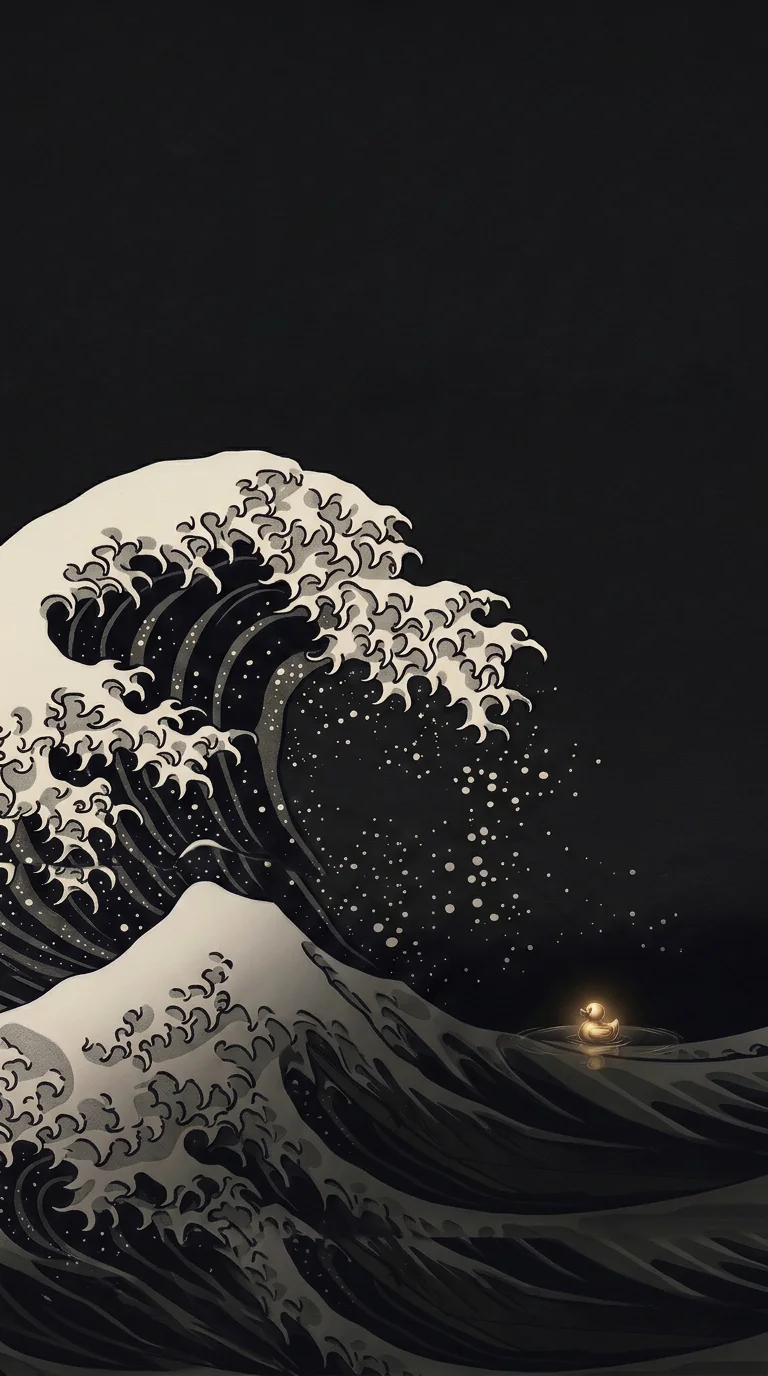
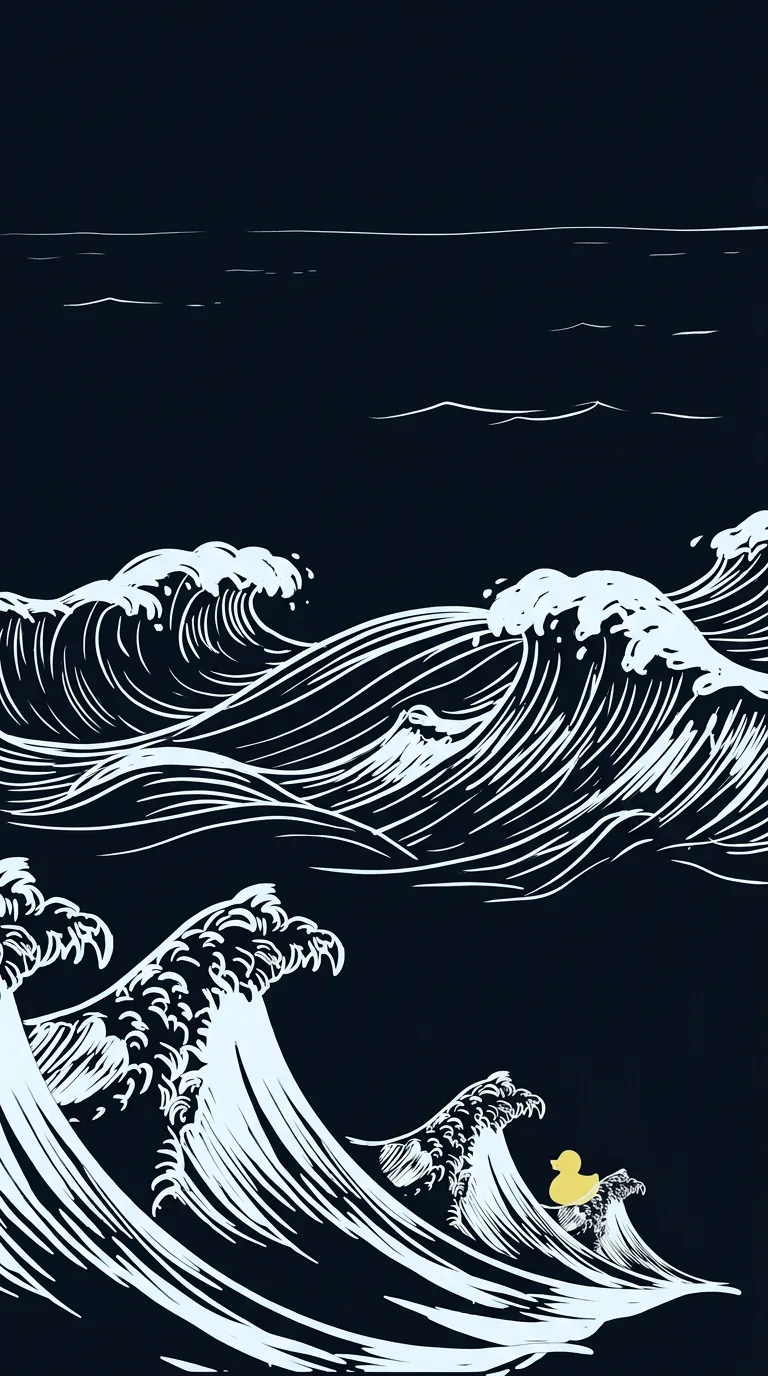
feat(hero): stage vast-ocean artwork and open the hero band
The old hero-band.webp (1000x676) cover-cropped about two-thirds of the
scene and stretched ~2x on desktop — grain where the scope should be.
Stage the approved wide (1376x768) and tall (768x1376) artworks, wire the
tall one to portrait phones via <picture>, and open the band:
clamp(420px, 58vh, 640px) on desktop, clamp(380px, 56vh, 520px) on
portrait mobile, object-position holding horizon, crest, and duck in frame.

diff --git a/styles.css b/styles.css
@@ -1,8 +1,9 @@
 /* Parent Pep Talks brand system — shared by every page on parentpeptalks.com.
    Two worlds. The warm paper world is the interface: bone field, charcoal ink,
    1px hairlines. The black night world is the artwork, used exactly as Allie
-   painted it — field #000000, ice-blue foam hsl(197 100% 95%), lemon glow
-   hsl(54 77% 66%) — hung full-bleed as a band from the very top of the page,
+   painted it — deep-navy night field, ice-blue foam hsl(197 100% 95%),
+   lemon glow hsl(54 77% 66%) — hung full-bleed as a band from the very top
+   of the page,
    cropping at the viewport edges (the framed-print staging from PR #5 is
    retired). Gold bridges the worlds: one gold family, and the CTA --primary
    is the duck's light on the page — actions only. The artwork's thick carved
@@ -63,9 +64,11 @@ main { flex: 1; display: flex; flex-direction: column; }
 
 /* The hero is a full-bleed band from the very top of the page: edge-to-edge
    artwork, no border, no shadow, no rounded corners — the wave crops at the
-   viewport edges. Height stays capped so the tagline and email capture still
-   peek into the first screenful, and object-position holds the duck in frame
-   from 360px up through 1440px and beyond. */
+   viewport edges. The wide artwork carries desktop and landscape; portrait
+   phones swap to the tall artwork via the index.html <picture>. Height stays
+   generous so the vast-ocean scope reads, but capped so the tagline and email
+   capture still peek into the first screenful, and object-position holds the
+   duck in frame. */
 .hero {
   display: flex;
   flex-direction: column;
@@ -73,7 +76,7 @@ main { flex: 1; display: flex; flex-direction: column; }
 }
 .hero-band {
   width: 100%;
-  height: clamp(320px, 44vh, 440px);
+  height: clamp(420px, 58vh, 640px);
   overflow: hidden;
 }
 .hero-band .hero-image {
@@ -81,11 +84,21 @@ main { flex: 1; display: flex; flex-direction: column; }
   width: 100%;
   height: 100%;
   object-fit: cover;
-  object-position: center;
+  /* Wide artwork: horizon at ~23% of frame height, duck at ~73% — the center
+     window keeps both in frame across desktop sizes. */
+  object-position: center 50%;
   pointer-events: none;
 }
 @media (max-width: 640px) {
+  /* Landscape phones: short band on the wide artwork — today's crop. */
   .hero-band { height: clamp(240px, 34vh, 320px); }
+}
+@media (max-width: 640px) and (orientation: portrait) {
+  /* Portrait phones get the tall artwork: a taller band opens up the ocean
+     expanse; a low anchor keeps the duck and main crest in frame — the duck
+     sits at ~86% of the tall frame. */
+  .hero-band { height: clamp(380px, 56vh, 520px); }
+  .hero-band .hero-image { object-position: center 78%; }
 }
 /* The promise line lives in the warm space below the band — charcoal
    serif-italic ink on bone, never overlaid on the artwork. */

diff --git a/index.html b/index.html
@@ -27,7 +27,10 @@
     <main>
       <section class="hero">
         <div class="hero-band">
-          <img src="assets/hero-band.webp" alt="" width="1000" height="676" loading="eager" fetchpriority="high" class="hero-image">
+          <picture>
+            <source media="(max-width: 640px) and (orientation: portrait)" srcset="assets/hero-tall.webp">
+            <img src="assets/hero-band.webp" alt="" width="1376" height="768" loading="eager" fetchpriority="high" class="hero-image">
+          </picture>
         </div>
         <h1 class="hero-line">You're doing better than you think.</h1>
       </section>
